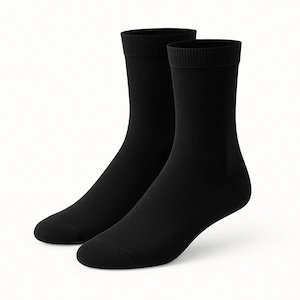
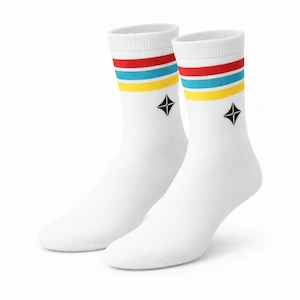
aggiunte immagini prodotto, modificato orderService/dto per pagina profilo personale cliente

diff --git a/backend/Controllers/OrdersController.cs b/backend/Controllers/OrdersController.cs
@@ -6,6 +6,7 @@ using Humanizer;
 using Microsoft.AspNetCore.Authorization;
 using Microsoft.AspNetCore.Mvc;
 using System.Security.Claims;
+using static NuGet.Packaging.PackagingConstants;
 
 namespace backend.Controllers
 {
@@ -45,7 +46,7 @@ namespace backend.Controllers
             var securityUserId = GetUserId();
             var customerId = await _customerService.GetCustomerIdBySecurityIdAsync(securityUserId);
             var orders = await _queryService.GetMyOrdersAsync(customerId);
-            return Ok(orders);
+            return Ok(ApiResponse<List<OrderDto>>.Success(orders));
         }
 
         // GET MY ORDER BY ID (USER)
@@ -60,7 +61,7 @@ namespace backend.Controllers
             if (order == null)
                 return NotFound("Order not found");
 
-            return Ok(order);
+            return Ok(ApiResponse<OrderDto>.Success(order));
         }
 
         // ADMIN: GET ALL ORDERS

diff --git a/backend/Services/OrderService.cs b/backend/Services/OrderService.cs
@@ -170,6 +170,7 @@ namespace backend.Services
                 SalesOrderId = order.SalesOrderId,
                 CustomerId = order.CustomerId,
                 OrderDate = order.OrderDate,
+                Status = order.Status,
                 SubTotal = order.SubTotal,
                 TaxAmt = order.TaxAmt,
                 Freight = order.Freight,
@@ -178,6 +179,7 @@ namespace backend.Services
                 {
                     ProductId = d.ProductId,
                     ProductName = d.Product.Name,
+                    ThumbnailUrl = $"/images/products/{d.Product.ThumbnailPhotoFileName}",
                     Quantity = d.OrderQty,
                     UnitPrice = d.UnitPrice,
                     Discount = d.UnitPriceDiscount,

diff --git a/backend/DTOs/Orders/OrderDto.cs b/backend/DTOs/Orders/OrderDto.cs
@@ -5,6 +5,7 @@
         public int SalesOrderId { get; set; }
         public int CustomerId { get; set; }
         public DateTime OrderDate { get; set; }
+        public byte Status { get; set; }
         public decimal SubTotal { get; set; }
         public decimal TaxAmt { get; set; }
         public decimal Freight { get; set; }
@@ -16,6 +17,7 @@
     {
         public int ProductId { get; set; }
         public string ProductName { get; set; } = "";
+        public string? ThumbnailUrl { get; set; }
         public int Quantity { get; set; }
         public decimal UnitPrice { get; set; }
         public decimal Discount { get; set; }
